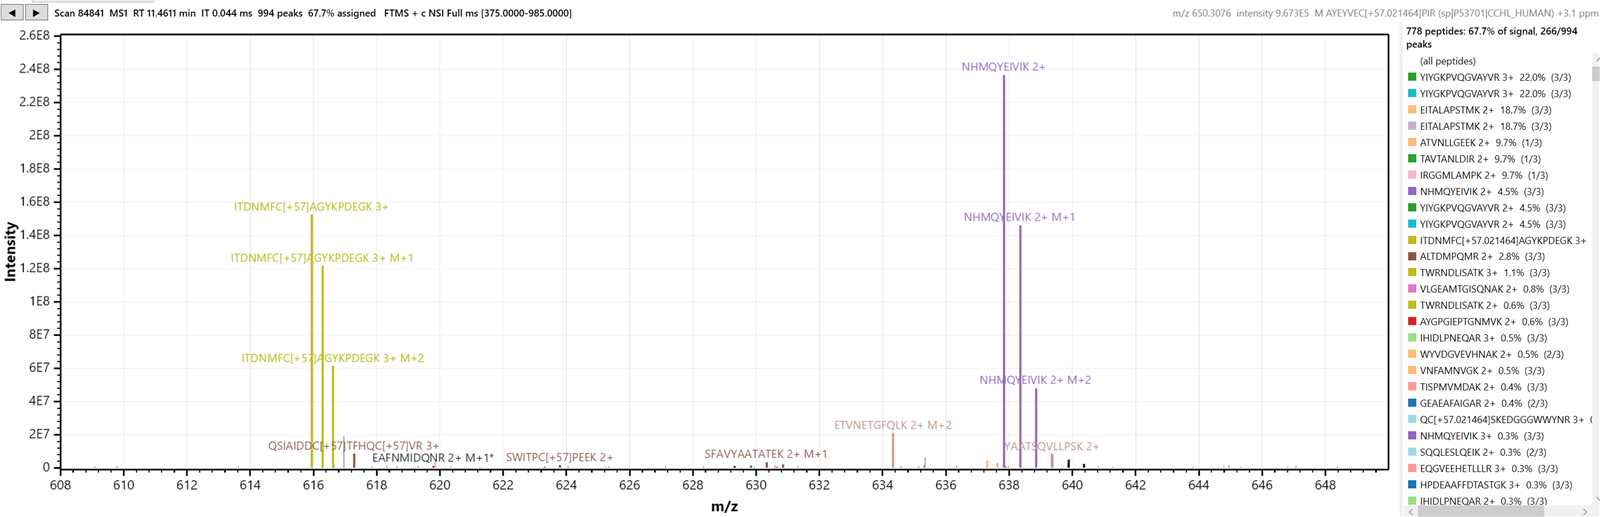
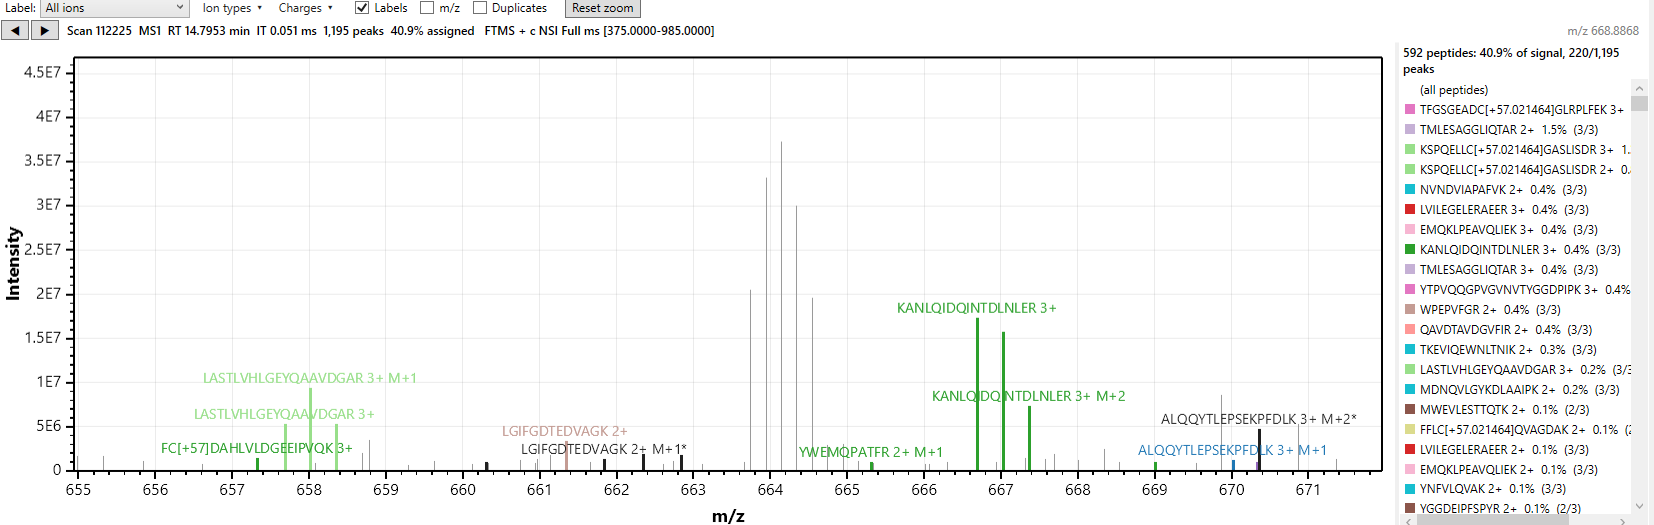
Kept the whole run in view with the TIC and retook the README screenshots
* Changed a new selection to keep the chromatogram on the whole run while the TIC,
  base peak or assigned trace is drawn; XICs drawn alone are still zoomed to
* Raised the opacity floor of many-trace XICs from 40 to 150 so thousands stay visible
* Retook every README screenshot on an Astral run: all 60,161 peptides' XICs, an
  annotated DIA scan, assigned signal, heatmaps and zoomed MS1 isotope labels

Changed region(s): [[0.0, 0.0, 1.0, 1.0], [0.1562, 0.3714, 0.25, 0.4333]]

diff --git a/tests/Glimpse.Tests/ChromatogramTimeAxisTests.cs b/tests/Glimpse.Tests/ChromatogramTimeAxisTests.cs
@@ -1,0 +1,71 @@
+using Glimpse.Core.Chromatograms;
+using Xunit;
+
+namespace Glimpse.Tests;
+
+/// <summary>Selecting peptides keeps the whole run in view while the TIC is drawn; XICs alone are zoomed to.</summary>
+public class ChromatogramTimeAxisTests
+{
+    private static XicTrace Xic(params double[] times) => new("x", times, times.Select(_ => 1.0).ToArray(), null);
+
+    private static readonly XicTrace[] TwoXics = { Xic(10, 11, 12), Xic(13, 14) };
+
+    [Fact]
+    public void WithTheTicTheWholeRunIsShown()
+    {
+        Assert.Equal((0.5, 60.0), ChromatogramTimeAxis.Range(0.5, 60, TwoXics, runTracesShown: true, fullRun: false));
+    }
+
+    [Fact]
+    public void XicsAloneAreZoomedTo()
+    {
+        // 10-14 min, padded by 10% of 4 min (0.4) each side.
+        var (low, high) = ChromatogramTimeAxis.Range(0.5, 60, TwoXics, runTracesShown: false, fullRun: false);
+        Assert.Equal(9.6, low, 9);
+        Assert.Equal(14.4, high, 9);
+    }
+
+    [Fact]
+    public void ANarrowSpanGetsAtLeastAFifthOfAMinute()
+    {
+        var (low, high) = ChromatogramTimeAxis.Range(0.5, 60, new[] { Xic(20, 20.5) }, runTracesShown: false, fullRun: false);
+        Assert.Equal(19.8, low, 9);
+        Assert.Equal(20.7, high, 9);
+    }
+
+    [Fact]
+    public void ThePaddingStopsAtTheRunsEnds()
+    {
+        Assert.Equal((1.0, 15.0), ChromatogramTimeAxis.Range(1, 15, new[] { Xic(1.1, 14.9) }, runTracesShown: false, fullRun: false));
+    }
+
+    [Fact]
+    public void ResetZoomShowsTheWholeRunEvenWithXicsAlone()
+    {
+        Assert.Equal((0.5, 60.0), ChromatogramTimeAxis.Range(0.5, 60, TwoXics, runTracesShown: false, fullRun: true));
+    }
+
+    [Fact]
+    public void NoXicsOrOnlyEmptyOnesShowTheWholeRun()
+    {
+        Assert.Equal((0.5, 60.0), ChromatogramTimeAxis.Range(0.5, 60, Array.Empty<XicTrace>(), runTracesShown: false, fullRun: false));
+        Assert.Equal((0.5, 60.0), ChromatogramTimeAxis.Range(0.5, 60, new[] { Xic() }, runTracesShown: false, fullRun: false));
+    }
+
+    [Fact]
+    public void MoreThanFiftyXicsShowTheWholeRun()
+    {
+        var fifty = Enumerable.Range(0, 50).Select(_ => Xic(10, 11)).ToArray();
+        Assert.Equal(9.8, ChromatogramTimeAxis.Range(0.5, 60, fifty, runTracesShown: false, fullRun: false).Low, 9);
+        var fiftyOne = fifty.Append(Xic(10, 11)).ToArray();
+        Assert.Equal((0.5, 60.0), ChromatogramTimeAxis.Range(0.5, 60, fiftyOne, runTracesShown: false, fullRun: false));
+    }
+
+    [Fact]
+    public void AnEmptyTraceDoesNotStretchTheZoom()
+    {
+        var (low, high) = ChromatogramTimeAxis.Range(0.5, 60, new[] { Xic(), Xic(30, 31) }, runTracesShown: false, fullRun: false);
+        Assert.Equal(29.8, low, 9);
+        Assert.Equal(31.2, high, 9);
+    }
+}

diff --git a/src/Glimpse.App/MainWindow.Chromatogram.cs b/src/Glimpse.App/MainWindow.Chromatogram.cs
@@ -63,8 +63,9 @@ public partial class MainWindow
     }
 
     /// <param name="autoscale">
-    /// Rescale: the time axis to the selected peptides' XICs (up to 50 of them), else to the whole run;
-    /// intensity from zero. Without it the current zoom is kept.
+    /// Rescale: the time axis to the whole run, or to the selected peptides' XICs when they are drawn
+    /// without the TIC, base peak or assigned trace (<see cref="ChromatogramTimeAxis"/>); intensity from
+    /// zero. Without it the current zoom is kept.
     /// </param>
     /// <param name="fullRun">With <paramref name="autoscale"/>, show the whole run even with XICs (Reset zoom).</param>
     private void RefreshChromatogram(bool autoscale, bool fullRun = false)
@@ -125,20 +126,11 @@ public partial class MainWindow
         if (autoscale)
         {
             plot.Axes.AutoScale();
-            var (rtFirst, rtLast) = (_run.Index.RtFirst, _run.Index.RtLast);
-            if (hasXics && xics.Count <= 50 && !fullRun)
-            {
-                // Zoom the time axis to the selection, within the run.
-                var t0 = xics.Where(x => x.Times.Length > 0).Select(x => x.Times[0]).DefaultIfEmpty(rtFirst).Min();
-                var t1 = xics.Where(x => x.Times.Length > 0).Select(x => x.Times[^1]).DefaultIfEmpty(rtLast).Max();
-                var pad = Math.Max(0.2, (t1 - t0) * 0.1);
-                plot.Axes.SetLimitsX(Math.Max(rtFirst, t0 - pad), Math.Min(rtLast, t1 + pad));
-            }
-            else if (rtLast > rtFirst)
-            {
-                // The whole run, first scan to last: AutoScale's margins would add time before and after it.
-                plot.Axes.SetLimitsX(rtFirst, rtLast);
-            }
+            // The whole run while the TIC or another run trace is drawn; XICs on their own, their span.
+            // Set exactly: AutoScale's margins would add time before and after the run.
+            var (low, high) = ChromatogramTimeAxis.Range(_run.Index.RtFirst, _run.Index.RtLast, xics, hasRunTraces, fullRun);
+            if (high > low)
+                plot.Axes.SetLimitsX(low, high);
             plot.Axes.SetLimitsY(0, plot.Axes.GetLimits(plot.Axes.Bottom, plot.Axes.Left).Top, plot.Axes.Left);
             if (separateXicAxis)
                 plot.Axes.SetLimitsY(0, plot.Axes.GetLimits(plot.Axes.Bottom, plot.Axes.Right).Top, plot.Axes.Right);

diff --git a/src/Glimpse.Core/Chromatograms/ChromatogramTimeAxis.cs b/src/Glimpse.Core/Chromatograms/ChromatogramTimeAxis.cs
@@ -1,0 +1,25 @@
+namespace Glimpse.Core.Chromatograms;
+
+/// <summary>The retention-time range the chromatogram shows after it is rescaled.</summary>
+public static class ChromatogramTimeAxis
+{
+    /// <summary>Selections with more XIC traces than this keep the whole run: their span is the run anyway.</summary>
+    public const int MaxZoomTraces = 50;
+
+    /// <summary>
+    /// The whole run, first scan to last, while a whole-run trace (TIC, base peak, assigned) is drawn, when
+    /// <paramref name="fullRun"/> asks for it, or with no or many XICs. XICs drawn on their own: their span,
+    /// padded by 10% (at least 0.2 min) on each side, within the run.
+    /// </summary>
+    public static (double Low, double High) Range(double rtFirst, double rtLast, IReadOnlyList<XicTrace> xics,
+        bool runTracesShown, bool fullRun)
+    {
+        var drawn = xics.Where(x => x.Times.Length > 0).ToList();
+        if (runTracesShown || fullRun || drawn.Count == 0 || xics.Count > MaxZoomTraces)
+            return (rtFirst, rtLast);
+        var t0 = drawn.Min(x => x.Times[0]);
+        var t1 = drawn.Max(x => x.Times[^1]);
+        var pad = Math.Max(0.2, (t1 - t0) * 0.1);
+        return (Math.Max(rtFirst, t0 - pad), Math.Min(rtLast, t1 + pad));
+    }
+}

diff --git a/src/Glimpse.Plotting/MultiTracePlottable.cs b/src/Glimpse.Plotting/MultiTracePlottable.cs
@@ -78,11 +78,12 @@ public sealed class MultiTracePlottable : IPlottable
     }
 
     /// <summary>
-    /// Opacity of each trace: opaque up to 20 traces, then falling as 1/sqrt(count) so overlapping
-    /// traces read as a density, but never below 40 of 255.
+    /// Opacity of each trace: opaque up to 20 traces, then falling as count^-1/4 so overlapping traces
+    /// read as a density, but never below 150 of 255. Peptide peaks are narrow and rarely overlap, so a
+    /// lower floor (40 once) left thousands of 1-pixel traces too faint to see.
     /// </summary>
     internal static byte AlphaFor(int traceCount) =>
-        (byte)Math.Clamp(255 * Math.Sqrt(20.0 / Math.Max(20, traceCount)), 40, 255);
+        (byte)Math.Clamp(255 * Math.Pow(20.0 / Math.Max(20, traceCount), 0.25), 150, 255);
 
     private void BuildPath(TraceLine t, SKPath path)
     {

diff --git a/src/Glimpse.App/MainWindow.Document.cs b/src/Glimpse.App/MainWindow.Document.cs
@@ -392,7 +392,7 @@ public partial class MainWindow
                 return;
             }
         }
-        RefreshChromatogram(autoscale: true);   // zoom to the new selection's XICs
+        RefreshChromatogram(autoscale: true);   // the whole run with the TIC, else the new selection's XICs
     }
 
     /// <summary>Selections up to this size get one XIC per peptide by default; larger ones a summed trace.</summary>

diff --git a/tests/Glimpse.Tests/RenderingTests.cs b/tests/Glimpse.Tests/RenderingTests.cs
@@ -118,8 +118,10 @@ public class RenderingTests
     [Theory]
     [InlineData(1, 255)]
     [InlineData(20, 255)]
-    [InlineData(80, 127)]
-    [InlineData(10_000, 40)]
+    [InlineData(40, 214)]
+    [InlineData(80, 180)]
+    [InlineData(300, 150)]
+    [InlineData(10_000, 150)]
     public void ManyTracesBecomeTranslucent(int count, int alpha) =>
         Assert.Equal(alpha, MultiTracePlottable.AlphaFor(count));
 

diff --git a/README.md b/README.md
@@ -19,13 +19,14 @@ Glimpse runs as a Skyline External Tool. It reads the document's targets, transi
 peak boundaries from the running Skyline, opens the data file of the replicate Skyline is showing, and
 lets you browse that file with every peak traced back to the peptide that explains it.
 
-![Glimpse with an Astral DIA run: a summed XIC over the MS1 TIC, and an MS1 spectrum with each peak labeled by its peptide](docs/images/overview-ms1.png)
+![Glimpse with an Astral DIA run: MS1 XICs of all 60,161 document peptides, zoomed to two minutes, and an MS1 spectrum with each peak labeled by its peptide](docs/images/overview.png)
 
-*An Orbitrap Astral DIA run against a 69,000-precursor document. Top: the MS1 TIC (gray) with the
-summed XIC of the peptides selected in Skyline (orange). Bottom: the MS1 spectrum at the dashed line,
-each peak colored and labeled by the peptide it belongs to, with the 558 peptides eluting there listed
-on the right. Left: the document's proteins and the current selection. Right: the properties of the
-file and spectrum.*
+*An Orbitrap Astral DIA run against a 69,000-precursor document, with every protein selected. Top: the
+MS1 XICs of all 60,161 peptides (66,209 precursor traces), zoomed to 10-12 min, each in its peptide's
+color; the highlighted trace is the one under the mouse. Bottom: the MS1 spectrum at the dashed line,
+where 716 document peptides explain 61% of the signal, each peak labeled by the peptide it belongs to.
+Left: the document's proteins and the selection. Right: the properties of the file, spectrum and
+focused peptide.*
 
 ## What you can look at
 
@@ -52,13 +53,21 @@ file and spectrum.*
   a peptide's fragment XIC is often a millionth of an MS1 TIC. Clear it to put every trace on one axis,
   so an XIC shows as the fraction of the TIC it is.
 - **Click a peptide's trace** to open the spectrum at that point, with that peptide in focus.
+- **The time axis stays on the whole run** while the TIC, base peak or assigned trace is drawn, so
+  clicking from protein to protein keeps the view. With the XICs drawn alone, a new selection of up
+  to 50 traces is zoomed to.
 
-![Per-peptide XICs of eight selected peptides, and the MS2 spectrum opened by clicking one of them](docs/images/xic-per-peptide-ms2.png)
+![Per-peptide XICs of fibrinogen gamma over the MS1 TIC, and an annotated MS2 spectrum](docs/images/xic-per-peptide-ms2.png)
 
-*Per-peptide XICs of the eight peptides selected in Skyline (MS2 fragments). Clicking the brown trace
-opened the MS2 spectrum at its apex: VYAMC[+57]QIK's fragment ions are labeled, the other peptides in
-the isolation window are dimmed, and the properties panel shows the peptide's integrated peak,
-q value, and library match.*
+*Fibrinogen gamma's 36 peptides selected in Skyline: their MS2 fragment XICs (right axis) over the
+whole-run MS1 TIC. Clicking a trace at 11.46 min opened that DIA scan: eight document peptides share
+the 3 m/z window, and TNLLQVC[+57]ER's b and y ions explain 15% of its signal. Black peaks marked `*`
+are claimed by more than one peptide.*
+
+![XICs of every peptide in the document across the whole run](docs/images/xic-every-peptide.png)
+
+*No top-N cap: all 60,161 peptides of the document, one MS1 XIC per precursor, across the 24-minute
+run (intensity zoomed to the bulk of the peaks).*
 
 - **Assigned signal.** The *Assigned* toggle draws, under the TIC, the signal claimed by document
   peptides inside their integrated peaks. Each peak counts once, however many peptides claim it
@@ -98,11 +107,16 @@ window). Click any cell to open that spectrum. Three values can be shown:
   also show m/z values, or show every ion on a shared peak.
 - **Step through scans** with the arrow keys.
 
+![MS2 spectrum zoomed to 180-1050 m/z: b and y ions of several co-isolated peptides, colored by peptide](docs/images/spectrum-ms2-labels.png)
+
+*The DIA scan above, zoomed: each fragment is colored by its peptide and named by its ion, and the
+legend gives each peptide's share of the scan's signal and the number of its ions matched.*
+
 ![Zoomed MS1 spectrum: precursor isotope peaks labeled with peptide, charge and isotope](docs/images/spectrum-ms1-labels.png)
 
-*An MS1 spectrum at 11.46 min, zoomed to 608-650 m/z: the isotope envelopes of
-ITDNMFC[+57]AGYKPDEGK 3+ (peaks 0.33 m/z apart) and NHMQYEIVIK 2+ (0.5 m/z apart), each peak named
-by its peptide, charge and isotope. Gray peaks belong to no document peptide.*
+*An MS1 spectrum at 14.80 min, zoomed to 655-672 m/z: the isotope envelopes of KANLQIDQINTDLNER 3+,
+LASTLVHLGEYQAAVDGAR 3+ and ALQQYTLEPSEKPFDLK 3+ (peaks 0.33 m/z apart), each peak named by its
+peptide, charge and isotope. Gray peaks belong to no document peptide.*
 
 ### Properties panel
 

diff --git a/release-notes/RELEASE_NOTES_next.md b/release-notes/RELEASE_NOTES_next.md
@@ -13,7 +13,9 @@ signal belongs to which peptide.
   it labeled and colored by peptide. The label source can be the document's transitions, the library
   spectrum, or all ions of the chosen types and charges.
 - XICs for any number of selected peptides or proteins (no top-N limit), summed, per protein or per
-  peptide. Clicking a peptide's trace opens its spectrum with that peptide in focus.
+  peptide. Clicking a peptide's trace opens its spectrum with that peptide in focus. While the TIC (or
+  another whole-run trace) is drawn, selecting another protein or peptide keeps the whole run in view;
+  XICs drawn alone are zoomed to. Thousands of per-peptide traces stay legible.
 - A properties panel with the file, acquisition, focused-peptide and library-match details.
 - Follows the selection in Skyline's Targets view.
 - The chromatogram is drawn while a data file is read, so a long run shows its TIC from the first seconds.
